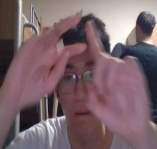
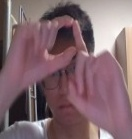
pause when swithcing tab/window

diff --git a/static/js/magic_touch.js b/static/js/magic_touch.js
@@ -15,11 +15,13 @@ const hurtSound = document.getElementById('hurt-sound');
 const currentPredictionEl = document.getElementById('current-prediction');
 
 let isPlaying = false;
+let isPaused = false; // NEW: Track if the game is paused
 let score = 0;
 let lives = 5;
 let enemies = [];
 let spawnInterval;
 let gameLoopRef;
+let predictTimeout;
 
 // Progression Variables
 let spawnRate = 4000;         // Stays firmly at 4 seconds
@@ -57,8 +59,31 @@ if (navigator.mediaDevices && navigator.mediaDevices.getUserMedia) {
 if (startBtn) startBtn.addEventListener('click', startGame);
 if (restartBtn) restartBtn.addEventListener('click', startGame);
 
+document.addEventListener("visibilitychange", () => {
+    if (document.hidden && isPlaying && !isPaused) {
+        pauseGame();
+    } else if (!document.hidden && isPlaying && isPaused) {
+        resumeGame();
+    }
+});
+
+function pauseGame() {
+    isPaused = true;
+    clearTimeout(spawnInterval);
+    clearTimeout(predictTimeout);
+    cancelAnimationFrame(gameLoopRef);
+}
+
+function resumeGame() {
+    isPaused = false;
+    scheduleSpawn();
+    gameLoopRef = requestAnimationFrame(gameLoop);
+    predictLoop();
+}
+
 function startGame() {
     isPlaying = true;
+    isPaused = false;
     score = 0;
     lives = 5;
     enemies.forEach(e => { if (e.element) e.element.remove(); });
@@ -84,14 +109,17 @@ function startGame() {
 
 function stopGame() {
     isPlaying = false;
+    isPaused = false; // Reset pause state
     clearTimeout(spawnInterval);
+    clearTimeout(predictTimeout); // Clear prediction timeout
     cancelAnimationFrame(gameLoopRef);
     finalScoreEl.innerText = score;
     gameOverScreen.style.display = 'flex';
 }
 
 function scheduleSpawn() {
-    if (!isPlaying) return;
+    if (!isPlaying || isPaused) return; // Guard against paused state
+
     spawnInterval = setTimeout(() => {
         waveCount++;
         
@@ -109,7 +137,8 @@ function scheduleSpawn() {
         
         for (let i = 0; i < enemiesToSpawn; i++) {
             setTimeout(() => {
-                if (isPlaying) {
+                // Check pause state again inside the delayed stagger
+                if (isPlaying && !isPaused) {
                     let bossChance = waveCount > 5 ? Math.min(0.25, (waveCount - 5) * 0.02) : 0;
                     let isBoss = Math.random() < bossChance;
                     
@@ -128,10 +157,9 @@ function scheduleSpawn() {
     }, spawnRate);
 }
 
-// Logic to avoid overlap between enemies
+// Logic to prevent overlap when spawn
 function getValidSpawnX(isBoss) {
     let attempts = 0;
-    // Bosses need a massive 30% width safe zone
     let myRequiredSpace = isBoss ? 30 : 16; 
 
     while (attempts < 50) {
@@ -155,13 +183,11 @@ function getValidSpawnX(isBoss) {
         attempts++;
     }
     
-    // Instead of forcing a bad spawn, return null
     return null; 
 }
 
 function spawnEnemy(startX, isBoss) {
     let wordLength = isBoss ? 2 : 1;
-    
     let word = "";
     const allowedLetters = "ABCDEFHIJLMOPQRSTUVWXZ"; 
     for (let i = 0; i < wordLength; i++) {
@@ -227,7 +253,7 @@ function spawnEnemy(startX, isBoss) {
 }
 
 function gameLoop() {
-    if (!isPlaying) return;
+    if (!isPlaying || isPaused) return; // Guard against paused state
 
     for (let i = enemies.length - 1; i >= 0; i--) {
         let e = enemies[i];
@@ -299,15 +325,15 @@ function updateLivesUI() {
     }
 }
 
-// --- Frame by Frame AI Processing Loop ---
+// Frame by Frame AI Processing Loop
 async function predictLoop() {
-    if (!isPlaying) return;
+    if (!isPlaying || isPaused) return; // Guard against paused state
 
     ctx.drawImage(video, 0, 0, canvas.width, canvas.height);
     const blob = await new Promise(resolve => canvas.toBlob(resolve, 'image/jpeg'));
 
     if (!blob) {
-        requestAnimationFrame(predictLoop);
+        if (isPlaying && !isPaused) predictTimeout = setTimeout(predictLoop, 50);
         return;
     }
 
@@ -324,10 +350,14 @@ async function predictLoop() {
         console.error("Prediction error", e);
     }
 
-    setTimeout(predictLoop, 50);
+    if (isPlaying && !isPaused) {
+        predictTimeout = setTimeout(predictLoop, 50); // Assigned to predictTimeout
+    }
 }
 
 function handlePrediction(letter, confidence) {
+    if (!isPlaying || isPaused) return; // Ignore AI guesses if paused
+
     const cfPercent = Math.round(confidence * 100);
     if (currentPredictionEl) {
         currentPredictionEl.innerText = `${letter} (${cfPercent}%)`;
@@ -342,13 +372,12 @@ function handlePrediction(letter, confidence) {
     if (cooldownActive) return;
 
     let targetEnemy = null;
-    let targetBalloonIndex = -1; // We now track specifically WHICH balloon matched
+    let targetBalloonIndex = -1; 
     let highestY = -Infinity;
 
     for (let i = 0; i < enemies.length; i++) {
         let e = enemies[i];
         
-        // Search ALL balloons on the enemy for a match, regardless of order
         let matchIndex = e.balloons.findIndex(b => b.letter === letter);
         
         if (matchIndex !== -1) {
@@ -369,7 +398,6 @@ function handlePrediction(letter, confidence) {
         }
 
         if (consecutiveFrames >= DEBOUNCE_THRESHOLD) {
-            // Pass the exact index of the balloon to be popped
             registerHit(targetEnemy, targetBalloonIndex);
 
             consecutiveFrames = 0;
